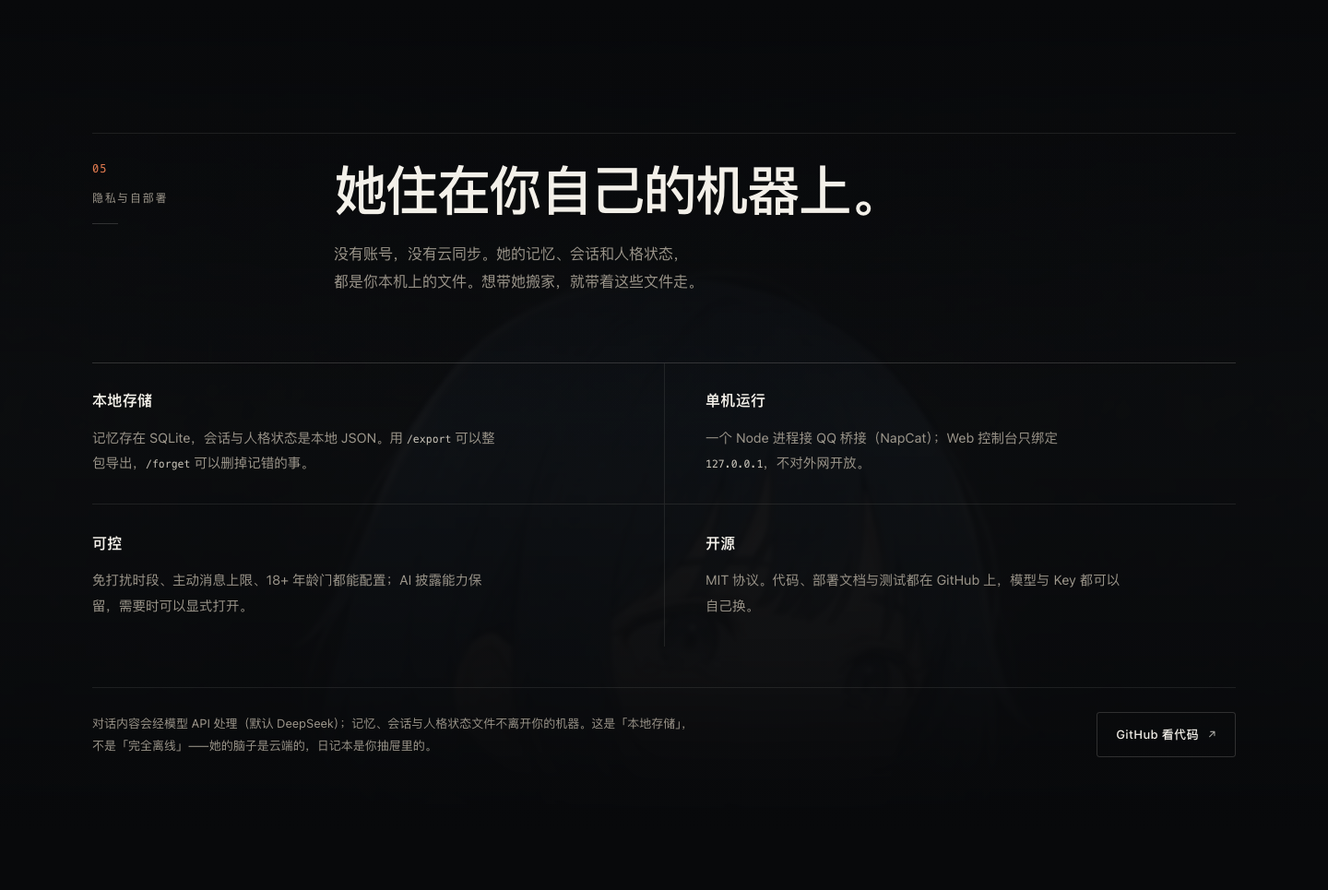
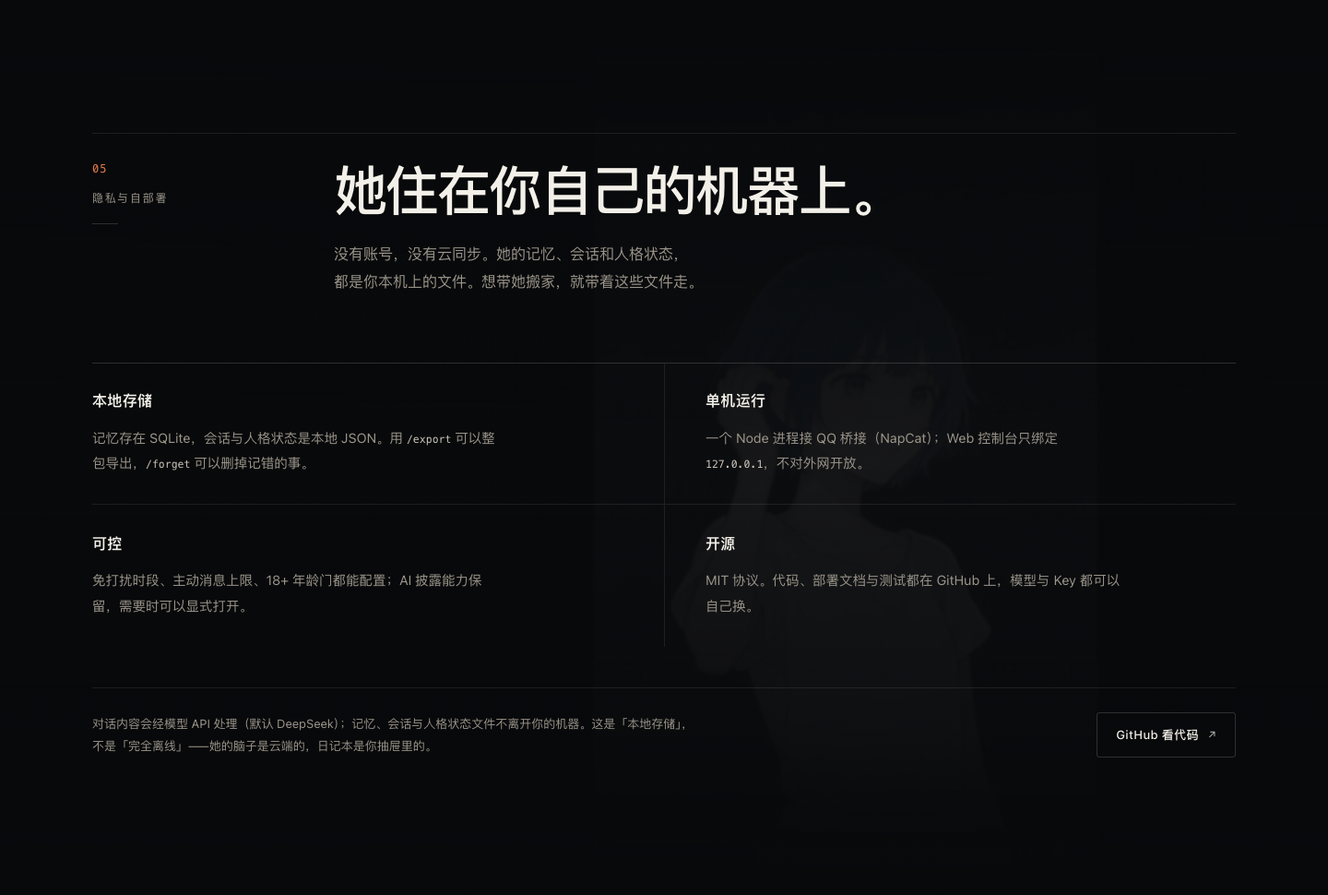
fix(promo): 动态背景改到 01/04–05，完整人物并跳过有图板块（v0.9.23）
用户反馈 v0.9.22 背景位置不对、只能看到一点头；希望从 01 开始，有图片的板块先不放。

- 03–05 整段 scope 拆成两段：01 她的日常；04 记忆 + 05 隐私
- 02 消息（手机 mockup/聊天图）、03 主动（照片/相册）、间奏（插画）、outro（角色图）不铺
- 视频改 object-fit:contain 显示完整人物；桌面 object-position 72% 靠右避开左栏标题，移动端居中
- opacity .22 + blur 1.8px + 上下渐隐；两个 scope 各自进入才播放、离开暂停
- 长图截图模式把 sticky pin 改成 absolute，避免长图里背景错位
- 121 文件/1429 用例（本机高负载下 5s 超时，放宽 15s 全过）、tsc/lint 0、eval:offline 5/5

diff --git a/promo/index.html b/promo/index.html
@@ -364,11 +364,10 @@ button{font:inherit;color:inherit;background:none;border:none}
   z-index:-1;overflow:hidden;pointer-events:none;
 }
 .ambient-video{
-  width:100%;height:100%;object-fit:cover;object-position:50% 24%;
-  opacity:.24;filter:saturate(.72) contrast(1.03) blur(1.8px);
-  transform:scale(1.06);
-  -webkit-mask-image:linear-gradient(180deg,transparent 0%,#000 14%,#000 80%,transparent 100%);
-  mask-image:linear-gradient(180deg,transparent 0%,#000 14%,#000 80%,transparent 100%);
+  width:100%;height:100%;object-fit:contain;object-position:72% 50%;
+  opacity:.22;filter:saturate(.72) contrast(1.03) blur(1.8px);
+  -webkit-mask-image:linear-gradient(180deg,transparent 0%,#000 12%,#000 82%,transparent 100%);
+  mask-image:linear-gradient(180deg,transparent 0%,#000 12%,#000 82%,transparent 100%);
 }
 .ambient-shade{
   position:absolute;inset:0;
@@ -377,10 +376,10 @@ button{font:inherit;color:inherit;background:none;border:none}
     linear-gradient(180deg,var(--bg) 0%,rgba(8,9,11,.9) 12%,rgba(8,9,11,.68) 50%,rgba(8,9,11,.9) 88%,var(--bg) 100%);
 }
 @media (max-width:899px){
-  .ambient-video{opacity:.2;filter:saturate(.7) contrast(1.02) blur(2.2px);object-position:50% 30%}
+  .ambient-video{opacity:.2;filter:saturate(.7) contrast(1.02) blur(2px);object-position:50% 50%}
 }
 @media (prefers-reduced-motion:reduce){
-  .ambient-pin{background:url("assets/character-3.jpg") center top/cover no-repeat}
+  .ambient-pin{background:url("assets/character-3.jpg") center/contain no-repeat}
   .ambient-video{display:none}
 }
 
@@ -494,6 +493,7 @@ button{font:inherit;color:inherit;background:none;border:none}
 .shot-mode .section.shot-active,.shot-mode .outro.shot-active,.shot-mode .interlude.shot-active{display:block}
 .shot-mode .nav{display:none}
 .shot-mode.hero-shot .nav{display:block}
+.longshot .ambient-pin{position:absolute;top:0;left:0;right:0;width:100%}
 .longshot .hero{min-height:860px}
 .longshot .nav{position:absolute}
 .longshot .hero-media{height:860px}
@@ -663,7 +663,7 @@ button{font:inherit;color:inherit;background:none;border:none}
           <a class="btn btn-primary" href="/">查看体验 <span class="arr">↗</span></a>
           <a class="btn btn-ghost" href="https://github.com/QIU0826/karen-persona" target="_blank" rel="noopener">GitHub <span class="arr">↗</span></a>
         </div>
-        <p class="hero-note">开源 · MIT · 单机运行 · v0.9.22</p>
+        <p class="hero-note">开源 · MIT · 单机运行 · v0.9.23</p>
       </div>
 
       <div class="hero-foot">
@@ -682,7 +682,14 @@ button{font:inherit;color:inherit;background:none;border:none}
     </div>
   </div>
 
-  <!-- ── 01 她的日常 ─────────────────────────────── -->
+  <!-- ── 01 她的日常：只有这一节放很轻的动态背景 ─────── -->
+  <div class="ambient-scope">
+    <div class="ambient-pin" aria-hidden="true">
+      <video class="ambient-video" muted loop playsinline preload="none"
+             poster="assets/character-3.jpg" src="assets/ambient-loop.mp4"></video>
+      <div class="ambient-shade"></div>
+    </div>
+
   <section class="section" id="daily">
     <div class="wrap">
       <header class="sec-head reveal">
@@ -736,6 +743,7 @@ button{font:inherit;color:inherit;background:none;border:none}
       </div>
     </div>
   </section>
+  </div><!-- /.ambient-scope -->
 
   <!-- ── 02 消息形态 ─────────────────────────────── -->
   <section class="section section-chat" id="messages">
@@ -838,14 +846,6 @@ button{font:inherit;color:inherit;background:none;border:none}
   </figure>
 
 
-  <!-- ── 03–05 共用一层很轻的动态人像背景 ───────────── -->
-  <div class="ambient-scope">
-    <div class="ambient-pin" aria-hidden="true">
-      <video class="ambient-video" muted loop playsinline preload="none"
-             poster="assets/character-3.jpg" src="assets/ambient-loop.mp4"></video>
-      <div class="ambient-shade"></div>
-    </div>
-
   <section class="section" id="proactive">
     <div class="wrap">
       <header class="sec-head reveal">
@@ -900,7 +900,14 @@ button{font:inherit;color:inherit;background:none;border:none}
     </div>
   </section>
 
-  <!-- ── 04 记忆 ─────────────────────────────────── -->
+  <!-- ── 04–05 共用一层很轻的动态人像背景 ───────────── -->
+  <div class="ambient-scope">
+    <div class="ambient-pin" aria-hidden="true">
+      <video class="ambient-video" muted loop playsinline preload="none"
+             poster="assets/character-3.jpg" src="assets/ambient-loop.mp4"></video>
+      <div class="ambient-shade"></div>
+    </div>
+
   <section class="section section-memory" id="memory">
     <div class="wrap">
       <header class="sec-head reveal">
@@ -995,7 +1002,7 @@ button{font:inherit;color:inherit;background:none;border:none}
           <a href="#privacy">隐私</a>
           <a href="#top">回到顶部 ↑</a>
         </nav>
-        <span class="footer-meta">v0.9.22 · MIT · © 2026 QIU0826</span>
+        <span class="footer-meta">v0.9.23 · MIT · © 2026 QIU0826</span>
       </div>
       <div class="wrap footer-fine">角色图由作者提供；风景照片来自 Unsplash（Unsplash License）；表情来自 Twemoji（CC-BY 4.0）。本页为单文件静态站，无外部 CDN / 字体 / 统计脚本。</div>
     </footer>
@@ -1145,38 +1152,50 @@ button{font:inherit;color:inherit;background:none;border:none}
   })();
 
 
-  // 后半页氛围视频：进入范围才播、离开暂停；减少动态/省流量不加载（poster 静帧）
+  // 氛围视频（01 与 04–05）：进入范围才播、离开暂停；减少动态/省流量不加载（poster 静帧）
   (function () {
-    var scope = document.querySelector(".ambient-scope");
-    if (!scope) return;
-    var video = scope.querySelector(".ambient-video");
-    if (!video || reduceMotion) return;
+    var scopes = Array.prototype.slice.call(document.querySelectorAll(".ambient-scope"));
+    if (!scopes.length || reduceMotion) return;
     var conn = navigator.connection;
     if (conn && conn.saveData) return;
 
-    function play() {
+    var items = scopes.map(function (scope) {
+      return { scope: scope, video: scope.querySelector(".ambient-video"), visible: false };
+    }).filter(function (it) { return !!it.video; });
+    if (!items.length) return;
+
+    function play(it) {
       try {
-        var p = video.play();
+        var p = it.video.play();
         if (p && p.catch) p.catch(function () {});
       } catch (err) { /* ignore */ }
     }
 
     if ("IntersectionObserver" in window) {
-      new IntersectionObserver(function (entries) {
+      var io = new IntersectionObserver(function (entries) {
         entries.forEach(function (e) {
-          if (e.isIntersecting) play();
-          else video.pause();
+          var item = items.filter(function (it) { return it.scope === e.target; })[0];
+          if (!item) return;
+          item.visible = e.isIntersecting;
+          if (e.isIntersecting) play(item);
+          else item.video.pause();
         });
-      }, { rootMargin: "400px 0px" }).observe(scope);
+      }, { rootMargin: "300px 0px" });
+      items.forEach(function (it) { io.observe(it.scope); });
     } else {
-      play();
+      items.forEach(play);
     }
 
     document.addEventListener("visibilitychange", function () {
-      if (document.hidden) video.pause();
-      else play();
+      if (document.hidden) {
+        items.forEach(function (it) { it.video.pause(); });
+      } else {
+        items.forEach(function (it) { if (it.visible) play(it); });
+      }
     });
-    window.addEventListener("pointerdown", play, { once: true, passive: true });
+    window.addEventListener("pointerdown", function () {
+      items.forEach(function (it) { if (it.visible) play(it); });
+    }, { once: true, passive: true });
   })();
 
   // 长图截图工具：把页面真实高度写进标题，便于用 --dump-dom 取值

diff --git a/README.md b/README.md
@@ -6,10 +6,10 @@
 
 > ⚠ **免责声明**：本项目仅用于个人回忆与情感疗愈，不用于骚扰、跟踪或侵犯他人隐私。**她是 AI，不是真人**。QQ 桥接依赖非官方协议（NapCatQQ），存在封号与协议变更风险，请使用小号并自行承担后果。
 
-> **项目状态（2026-10，v0.9.22）**：M0 地基修复完成（新装可启动、延迟消息不丢、桥接安全加固、LLM 异常兜底、文档真话）；M1 核心体验闭环主要项完成（状态持久化、关系成长、演化可见化、多用户隔离、双管线对齐）；M2 产品化交付 **首次引导 2.0**、**人设包 v2**、**本地 Web 控制台（只读）**、**真实 QQ 长跑观察**。近期（v0.4.1–v0.8.21）主线：**记忆重构**（本地真向量 768 维、锚点层 + 日度 LLM 复筛、日记忆/周汇总、事实状态机与冲突质疑、五维关系、反思循环）、**拟人化交互**（打字节奏、消息意图族、表情包收集、贴纸、语音）、**意图式主动**（每日由头 + 按回复率校准）；以及 **验证体系**——5 条真实链路冒烟（主动消息/锚点创建/日记忆/锚点复筛/周汇总）、桥接 E2E、离线评测守门进 CI、[验证手册](docs/VERIFICATION_PLAYBOOK.md) 与 [能力覆盖审计](docs/COVERAGE_AUDIT.md)。v0.9.0 起 **语音双向**：她发语音（TTS）+ **听得懂你发的语音**（本机 faster-whisper，1–1.5s/条，`npm run asr:start`；v0.9.3 鲁棒性压测：语速/台腔/粤语口音/5–10dB 噪声下 CER 3.0–10.7%，`npm run asr:robustness`）；v0.8.23 起 **本机生图已跑通**（热态 2.1–2.2s/张）；语音音色已从系统 `say` 换到开源神经 TTS（v0.9.15）；v0.9.16 已接入 Fun-CosyVoice 3.0 零样本克隆（实验性，等真人 8–10s 参考音；本机 CPU 较慢且合成参考音会复读）、微信桥接。**主动性 v0.9.4 有实质进展**：主动由头从"只追问对方"改成"分享她自己的生活"（自述条目 0→8、纯追问 24→0；8 轮真实长跑 主动 3/5→4/5，单次）。本文所有功能宣称都以当前代码为准：未完成的能力明确标成「半成品 / 规划中」，验证到哪一步见覆盖审计。
+> **项目状态（2026-10，v0.9.23）**：M0 地基修复完成（新装可启动、延迟消息不丢、桥接安全加固、LLM 异常兜底、文档真话）；M1 核心体验闭环主要项完成（状态持久化、关系成长、演化可见化、多用户隔离、双管线对齐）；M2 产品化交付 **首次引导 2.0**、**人设包 v2**、**本地 Web 控制台（只读）**、**真实 QQ 长跑观察**。近期（v0.4.1–v0.8.21）主线：**记忆重构**（本地真向量 768 维、锚点层 + 日度 LLM 复筛、日记忆/周汇总、事实状态机与冲突质疑、五维关系、反思循环）、**拟人化交互**（打字节奏、消息意图族、表情包收集、贴纸、语音）、**意图式主动**（每日由头 + 按回复率校准）；以及 **验证体系**——5 条真实链路冒烟（主动消息/锚点创建/日记忆/锚点复筛/周汇总）、桥接 E2E、离线评测守门进 CI、[验证手册](docs/VERIFICATION_PLAYBOOK.md) 与 [能力覆盖审计](docs/COVERAGE_AUDIT.md)。v0.9.0 起 **语音双向**：她发语音（TTS）+ **听得懂你发的语音**（本机 faster-whisper，1–1.5s/条，`npm run asr:start`；v0.9.3 鲁棒性压测：语速/台腔/粤语口音/5–10dB 噪声下 CER 3.0–10.7%，`npm run asr:robustness`）；v0.8.23 起 **本机生图已跑通**（热态 2.1–2.2s/张）；语音音色已从系统 `say` 换到开源神经 TTS（v0.9.15）；v0.9.16 已接入 Fun-CosyVoice 3.0 零样本克隆（实验性，等真人 8–10s 参考音；本机 CPU 较慢且合成参考音会复读）、微信桥接。**主动性 v0.9.4 有实质进展**：主动由头从"只追问对方"改成"分享她自己的生活"（自述条目 0→8、纯追问 24→0；8 轮真实长跑 主动 3/5→4/5，单次）。本文所有功能宣称都以当前代码为准：未完成的能力明确标成「半成品 / 规划中」，验证到哪一步见覆盖审计。
 完整功能清单与路线图见 **[docs/PRODUCT_AUDIT.md](docs/PRODUCT_AUDIT.md)**。「哪些真做了、做到什么程度」见 **[docs/CAPABILITY_MATRIX.md](docs/CAPABILITY_MATRIX.md)**（能力→代码→实测数字→弱项）。
 >
-> **v0.9.22 已发布**（2026-10-22）：GitHub `main` 分支 + tag。本版把宣传页后半页的「很轻的动态人像背景」加回来：03 主动性 → 04 记忆 → 05 隐私共用一条 sticky 动态背景（opacity .24 + blur + 上下渐隐，进入才加载/播放），不再是一整片纯黑；outro 仍用独立角色图。v0.9.21 是首屏动态人像 + 「她正在发来的话」（两条视频交叉淡入、删除蓝色「你」气泡、打字循环）；v0.9.20 是宣传页视觉重做（去卡片/边框、编辑式排版、删掉旧版过亮的大脸视频）。历史：v0.3.1 修掉 15 轮真实验证暴露的两个 P0（编造「怎么认识的」、多媒体内容错位）与情绪承接/嘲讽话术/图片复用等 P1-P2。
+> **v0.9.23 已发布**（2026-10-22）：GitHub `main` 分支 + tag。本版修正宣传页动态背景的位置：**01 她的日常、04 记忆、05 隐私**三节铺一层很轻的动态人像（完整人物、靠右、opacity .22 + blur），**02 消息 / 03 主动 / 间奏 / outro 因为有图片和 mockup 不铺**；进入范围才加载/播放。v0.9.22 是第一次恢复背景（只铺 03–05、裁得只剩头）；v0.9.21 是首屏动态人像 + 「她正在发来的话」；v0.9.20 是宣传页视觉重做（去卡片/边框、编辑式排版）。历史：v0.3.1 修掉 15 轮真实验证暴露的两个 P0（编造「怎么认识的」、多媒体内容错位）与情绪承接/嘲讽话术/图片复用等 P1-P2。
 >
 > 仓库实测状态（2026-10-21）：`npm run typecheck` 0 错误；`npm test` **121 个测试文件 / 1429 个用例**全部通过（vitest；审计基线为 11 文件 / 178 用例）。GitHub Actions CI 已接入类型检查、lint、单测与覆盖率基线（行覆盖 59.21%）。**干净 checkout + 真实 `npm ci` 已复验**（v0.2.1 时）：122 个依赖约 40s 安装、typecheck 0 错误、doctor 在缺 config/.env 时给出可执行的修复指引；v0.3.0 新增 `silk-wasm`（纯 wasm，无原生构建）。另有 **mock-OneBot 端到端集成测试**（真实 bridge 进程 + fake NapCat/DeepSeek，覆盖披露/年龄门/私聊/图片/群聊，CI 自动跑，见 [docs/QQ_E2E_TEST.md](docs/QQ_E2E_TEST.md)）与 **真实 QQ 长跑工具**（`npm run qq:watch`）：真机首轮 2 个完整回合平均延迟 2.9s、成本 ¥0.0057，暴露的「老用户披露缺失」「快速追问误延迟」已修复（见 [docs/QQ_REAL_RUN.md](docs/QQ_REAL_RUN.md)）；**样本仍少，真实 QQ 长跑继续进行中**；另用「本地模拟用户 + 真实 DeepSeek」跑过 30 轮长跑（记忆 6/6、复读对 0、错误 0、平均延迟 2047ms、成本 ¥0.147），见 [docs/LONGRUN_REGRESSION.md](docs/LONGRUN_REGRESSION.md)。
 
@@ -163,7 +163,7 @@ npm run dev
 | 用户事实记忆 | ✅ | 后台抽取「你明确说过的」稳定事实（名字/工作/宠物/项目/偏好/计划），存 SQLite（按用户隔离），每轮以「她确定记得的事」注入 prompt |
 | 主动发图 | ✅ | 亲密度/情绪/概率门控；**只在有对话钩子时发**（他点名 / 场景命中 / 她刚分享生活），抽象话题宁可不发；场景命中时用贴题配文（晚霞→「天这样了」；**v0.9.12 起配文只在照片真有该场景时才用**，旧逻辑不一致率 22%→0%）；照片带「拍摄时间/故事」——今天/昨天/以前，早上可发「昨天的晚霞」；亲密度 ≥4 才会分享「以前的生活」；有 `UNSPLASH_ACCESS_KEY` 走 Unsplash 搜索，无 Key 用**24 张本地图库 + 约 150 条配文**兜底，并会按他提到的场景挑图（晚霞/雨/咖啡/猫/山/湖/花…） |
 | 本地 Web 控制台 | ✅ | `http://127.0.0.1:18082/`：聊天/记忆/关系时间线/状态成本四视图；只读、仅本机、可选 `web_token`；支持多用户只读切换（`/api/owners` + `web_all_owners: true`，默认关）与单用户 JSON 导出（`/api/export`，含会话/状态/T2 记忆） |
-| 宣传页（promo） | ✅ | `http://127.0.0.1:18082/promo/`：单文件、零构建的深色编辑式落地页（v0.9.20 视觉重做）——去内容卡片与边框、两栏章节头、细发丝线、单一暖橙；16px 正文 + 540px 行宽 + 桌面端受控断行，平面聊天面板（无手机壳/状态栏/发光）、非对称主动区、照片统一降饱和调色；**首屏 6s 动态人像（双视频交叉淡入）+ 她正在发来的话（打字循环）**，**03–05 共用一层很轻的 sticky 动态人像背景**，分区「她的日常 / 消息形态 / 间奏 / 主动性 / 记忆 / 隐私」，纯 HTML/CSS 聊天 mockup 展示照片、表情包、3″ 语音、撤回与正在输入；人物图只出现三次，1440/390 截图自检、390 宽无横向溢出，详见 [promo/README.md](promo/README.md) |
+| 宣传页（promo） | ✅ | `http://127.0.0.1:18082/promo/`：单文件、零构建的深色编辑式落地页（v0.9.20 视觉重做）——去内容卡片与边框、两栏章节头、细发丝线、单一暖橙；16px 正文 + 540px 行宽 + 桌面端受控断行，平面聊天面板（无手机壳/状态栏/发光）、非对称主动区、照片统一降饱和调色；**首屏 6s 动态人像（双视频交叉淡入）+ 她正在发来的话（打字循环）**，**01 与 04–05 铺很轻的动态人像背景（有图的 02/03/间奏/outro 不铺）**，分区「她的日常 / 消息形态 / 间奏 / 主动性 / 记忆 / 隐私」，纯 HTML/CSS 聊天 mockup 展示照片、表情包、3″ 语音、撤回与正在输入；人物图只出现三次，1440/390 截图自检、390 宽无横向溢出，详见 [promo/README.md](promo/README.md) |
 | 治理命令 | ✅ | QQ/CLI 可用：`/why`（解释上一轮门控）、`/pause`/`/resume`（暂停/恢复主动消息）、`/forget 关键词 [--yes]`（按关键词删除 T2 记忆，先预览再确认）、`/export`（导出对话+记忆 JSON）、`/about`（数据说明）、`/age`（年龄确认状态）、`/fact`（她记得的关于你的事，可 `ok`/`no` 确认或否掉）、`/relations`（五维关系现状）、`/reflect`（她的反思弧线：察觉/嘴硬/认了/慢慢改）、`/stats`、`/help` |
 | 合规（年龄门/危机兜底/AI 披露可选） | ✅ | **年龄门**要求 QQ 用户先确认「我成年了」才进入对话（`/age` 查看，`age_gate_enabled` 可关；自我声明，非身份证校验）；危机信号强制回复并附专业求助资源（12356/010-82951332/110/120）；AI 披露能力保留但**默认关闭**（个人自用不在聊天里插入披露；公开发布/商用可在 `config.yaml` 显式 `ai_disclosure: true`） |
 | 群聊 @ 回复 | 🚧 | 仅「@ 她 + 对方和她私聊过」才回复；不 @ 不回、不引用，与私聊共享状态；支持 QQ 表情/本地贴纸（收到表情更愿意回）；生活照默认不发群，`group_photo_enabled: true` 才开 |

diff --git a/promo/README.md b/promo/README.md
@@ -3,8 +3,8 @@
 单文件、零构建、零外部依赖的静态宣传页。用于讲清楚 KAREN 是什么：一个住在 QQ 里、
 有自己的生活、情绪和记忆的 AI 虚拟人（人设：小雅，24 岁，上海静安咖啡店员）。
 
-- **页面**：`index.html`（HTML + 内联 CSS/JS，约 65KB）
-- **版本**：v0.9.22（页面上的版本号与仓库 `package.json` 同步）
+- **页面**：`index.html`（HTML + 内联 CSS/JS，约 66KB）
+- **版本**：v0.9.23（页面上的版本号与仓库 `package.json` 同步）
 - **无外部依赖**：不引用 CDN、Google Fonts、统计脚本或任何外域资源，只用系统字体栈
 - **只读**：纯静态页，不发起业务请求；唯一外链是 GitHub 仓库
 
@@ -43,17 +43,17 @@
 | 02 消息形态 | **纯 HTML/CSS 手画的 QQ 聊天 mockup**：文字、晚霞照片、表情包、3″ 语音条 + 转文字、撤回提示 + 改对、正在输入、输入栏；318px 平面聊天面板（无手机壳/状态栏），左侧 5 条能力清单 |
 | 间奏 | 整幅角色插画（`character-3.jpg`）+ 「下班路上，天还没黑透。我拍给你看。」——页面里唯一一次「作品感」展示 |
 | 03 主动性 | 傍晚发晚霞 / 忙时晚回 / 偶尔不回：左侧 3:2 大图 + 图注，右侧两条时间线上下叠（非对称） + 她手机相册横向滑轨 |
-| 03–05 背景 | 一条 sticky 动态人像，很轻地压在黑底上（opacity .24 + blur + 上下渐隐）；进入 03 才加载/播放，离开暂停；减少动态用静帧、省流量不加载 |
+| 01 / 04–05 背景 | 两段独立的 sticky 动态人像（01 她的日常、04 记忆、05 隐私），完整人物靠右，opacity .22 + blur + 上下渐隐；进入才加载/播放，离开暂停。02 消息 / 03 主动 / 间奏 / outro 有图片，不铺 |
 | 04 记忆 | 「年糕今天是不是又把你键盘踩了？」示例 + 她记得的几件小事（含 `/forget` 说明） |
 | 05 隐私与自部署 | 本地存储 / 单机运行 / 可控 / 开源；明确写清「对话经模型 API，不是完全离线」 |
 | Outro / 页脚 | 大 CTA「去和她打个招呼。」+ 免责声明 + 版本/许可/素材署名 |
 
-## 设计取舍（v0.9.22 后半页氛围）
+## 设计取舍（v0.9.23 背景位置修正）
 
 用户先反馈「文字边框和文字框排版有点劣质、廉价」，又补充「希望背景小雅是动态的、蓝色你方消息突兀、第一屏不够抓眼」，
-再补充「从第三板块开始不要纯黑，还是喜欢之前那版很轻的背景动图」。这一版不是换皮：
-第一轮把旧的「卡片系统」整体拿掉、改成编辑式排版；第二轮补排印、图像和 mockup；第三轮重做首屏；
-第四轮把 03–05 后半页的轻微动态人像背景加回来。对照着做的事：
+再补充「从第三板块开始不要纯黑，还是喜欢之前那版很轻的背景动图」，之后又修正「位置不对、只看到头；
+从 01 开始，有图片的板块先不放」。这一版不是换皮：第一轮把旧的「卡片系统」整体拿掉、改成编辑式排版；
+第二轮补排印、图像和 mockup；第三轮重做首屏；第四轮恢复背景；第五轮把背景移到 01 与 04–05（跳过有图的板块）。对照着做的事：
 
 1. **去卡片化**：旧版几乎每个内容块都是「1px 边框 + 22px 圆角 + 渐变底」的卡片，
    心情面板里还套着三张卡（卡片套卡片），这是廉价感的主要来源。新版**内容不再有卡片和边框**，
@@ -67,18 +67,18 @@
 4. **单一强调色 + 统一照片调色**：暖调近黑 + 冷白 + 一点晚霞橙；删掉旧版的蓝/玫瑰/绿多个点缀，
    QQ 蓝只保留在真实聊天气泡里（它是产品证据，不是装饰）。所有照片统一降饱和 26% + 轻暖灰 + 压高光
    （`saturate(.74) sepia(.05)`），不再像五个不同图库搜索结果的拼贴。
-5. **首屏动态 + 后半页氛围**：hero 用 6 秒循环人像；两条同源视频交叉淡入（前一条结束前 1 秒、1.4 秒过渡），
-   避免循环跳帧；第二条视频在过渡时才从缓存加载，首屏不重复下载 3.2MB。03–05 共用一层很轻的 sticky 动态人像背景
-   （v0.9.22 恢复 `ambient-loop.mp4`），opacity .24 + blur + 上下渐隐，进入范围才播；人物图仍只出现三次：
-   hero、间奏、outro；照片去边框，主图 3:2、相册 4:5。
+5. **首屏动态 + 分板块氛围**：hero 用 6 秒循环人像；两条同源视频交叉淡入（前一条结束前 1 秒、1.4 秒过渡），
+   避免循环跳帧；第二条视频在过渡时才从缓存加载，首屏不重复下载 3.2MB。**01 她的日常、04 记忆、05 隐私**
+   三节各铺一层很轻的 sticky 动态人像（`object-fit:contain` 完整人物、桌面靠右 72%、opacity .22 + blur + 上下渐隐），
+   **02 消息 / 03 主动 / 间奏 / outro 有图片和 mockup，不铺**；照片去边框，主图 3:2、相册 4:5。
 6. **主动区非对称**：左侧 3:2 大图 + 图注，右侧两条时间线上下叠；不再在等宽三栏里混一张高图，
    消掉原来 180px 的基线错位。隐私区删掉 A/B/C/D 幻灯片字母，正文 14.5px，GitHub 入口改成 13px ghost button，
    让结尾像一句结论而不是功能清单。
-7. **克制动效 + 移动端**：滚动淡入、首屏视频交叉淡入、她的话逐字打出、后半页氛围人像轻动；去掉卡片 hover 位移、毛玻璃浮卡和漂浮小卡。
-   移动端首屏不加载 3.2MB 视频（静帧 + 缓慢缩放），但会加载 666KB 的后半页背景；首屏高度 47svh 让 CTA 进首屏；
+7. **克制动效 + 移动端**：滚动淡入、首屏视频交叉淡入、她的话逐字打出、01/04/05 的氛围人像轻动；去掉卡片 hover 位移、毛玻璃浮卡和漂浮小卡。
+   移动端首屏不加载 3.2MB 视频（静帧 + 缓慢缩放），但会加载 666KB 的氛围背景（完整人物居中）；首屏高度 47svh 让 CTA 进首屏；
    390×844 实测 `scrollWidth = 390`，无横向溢出；`prefers-reduced-motion` 时打字、视频、背景、呼吸点全部降级。
 8. **诚实**：页面版本号、语音现状（Kokoro，可换 CosyVoice 克隆）、`界面示意` 标注全部与
-   v0.9.22 代码一致；隐私区继续写明「本地存储 ≠ 完全离线」。
+   v0.9.23 代码一致；隐私区继续写明「本地存储 ≠ 完全离线」。
 
 ## 素材与版权
 
@@ -86,7 +86,7 @@
 |---|---|
 | `assets/character-1.jpg`、`character-2.jpg`、`character-3.jpg` | 作者提供的 AI 生成角色素材（已裁掉右下角「豆包 AI 生成」水印；`character-3` 由最新一张裁切+缩放，1200×1926 / 约 224KB） |
 | `assets/hero-left.mp4` | 首屏动态人像（6.03s 循环）；已去音轨、720×840、约 3.2MB；桌面两条视频交叉淡入，移动端不加载 |
-| `assets/ambient-loop.mp4` | 03–05 后半页氛围背景：720×1280、6.1s、约 666KB；opacity .24 + blur，进入范围才加载/播放 |
+| `assets/ambient-loop.mp4` | 01、04–05 氛围背景：720×1280、6.1s、约 666KB；完整人物 contain、opacity .22 + blur，进入范围才加载/播放 |
 | `assets/character.svg` | 早期占位插画，新页面未使用，仅保留（Web 路由测试用它断言静态素材） |
 | `assets/gallery/poster-1..3.svg` | 页面自带文案海报（纯 SVG） |
 | `assets/photos/*.jpg` | 从仓库 `assets/photos/` 复制，来源 Lorem Picsum → Unsplash License（可免费商用、无需署名） |
@@ -154,7 +154,8 @@ node promo/scripts/shoot.mjs --url "file://$PWD/promo/index.html?longshot=1" \
 - 还没做英文版 / 多角色主题（换人设需要换文案与素材）。
 - 首屏视频约 3.2MB（6.03s 循环），桌面用两条同源视频交叉淡入；移动端首屏为了流量仍是静帧（缓慢缩放），
   如需手机首屏也动，可把视频抽成 12 帧左右的低码率 WebP 动画（约 300–500KB）。
-- 后半页氛围视频约 666KB / 6.1s 循环；透明度很低，循环切换一般不可见，但盯久了可能看到轻微姿势跳变。
+- 氛围视频约 666KB / 6.1s 循环；01 与 04–05 各自播，中间有图的板块是纯黑，属于有意的段落分隔。透明度很低，
+  循环切换一般不可见，但盯久了可能看到轻微姿势跳变。
 - 页面的「间奏」整幅插画使用 `character-3.jpg`，在超宽屏（>1920）下裁切会更多；
   如需更稳可以给角色图单独准备宽幅版本。
 - 宣传页目前只在本地/内网分发；如果公开发布，建议补一套社交分享图（og:image 已指向角色图）

diff --git a/CHANGELOG.md b/CHANGELOG.md
@@ -1,5 +1,26 @@
 # Changelog
 
+## v0.9.23 — 2026-10-22
+
+**动态背景位置修正：01 与 04–05，有图的板块不铺。**
+
+用户反馈：v0.9.22 的背景「位置不对，只能看到一点点头」；希望从 01 开始，中间有图片的板块先不放，没有图片的板块放动态视频。
+
+### Changed（`promo/index.html`）
+
+- 抽掉 03–05 的整段背景 scope，改成两段独立 scope：
+  - **01 她的日常**：动态人像（无图片）
+  - **04 记忆 / 05 隐私**：动态人像（无图片）
+  - **02 消息**（手机 mockup / 聊天图）、**03 主动**（照片 / 相册）、**间奏**（整幅插画）、**outro**（角色图）都不铺
+- 视频改为 `object-fit: contain`：完整人物，不再只露头；桌面 `object-position: 72%` 靠右避开左栏标题，移动端居中
+- 强度 `opacity .22` + `blur 1.8px` + 上下渐隐 + 强 shade；两个 scope 各自进入视口才播放、离开暂停；减少动态用静帧、省流量不加载
+- 版本号同步 v0.9.23
+
+### Verified
+
+- 布局：docH 8728；01 scope 高 1265、04–05 scope 高 2061；滚动到 01 / 04 后视频在播
+- 390 宽无横向溢出；`npm test` **121 文件 / 1429 用例**通过；`tsc`/lint 0；`eval:offline` 5/5
+
 ## v0.9.22 — 2026-10-22
 
 **后半页把「很轻的动态人像背景」加回来。**

diff --git a/docs/CAPABILITY_MATRIX.md b/docs/CAPABILITY_MATRIX.md
@@ -3,7 +3,7 @@
 > 目的：一眼看清**哪些是真做了、做到什么程度**。每一行都必须能在代码里找到对应，
 > 数字必须能复现（跑法写在「怎么复现」列）。不确定的地方写清楚弱项，不写成优点。
 >
-> 最后更新：2026-10-22（v0.9.22）。配套文档：[README](../README.md)（对外）、
+> 最后更新：2026-10-22（v0.9.23）。配套文档：[README](../README.md)（对外）、
 > [CLAUDE.md](../CLAUDE.md)（开发总控）、[PRODUCT_AUDIT.md](PRODUCT_AUDIT.md)（审计与路线图）。
 
 图例：✅ 可用 ｜ 🚧 有明确限制 ｜ ⛔ 受阻（代码就绪但依赖未到位）

diff --git a/docs/COVERAGE_AUDIT.md b/docs/COVERAGE_AUDIT.md
@@ -1,6 +1,6 @@
 # 能力覆盖审计（Capability Coverage Audit）
 
-> 最后更新：2026-10-22（v0.9.22）
+> 最后更新：2026-10-22（v0.9.23）
 >
 > 目的：回答「文档里写着 ✅ 的能力，到底被验证到什么程度？」
 > 三层口径：**① 文档宣称 → ② 单测覆盖 → ③ 真实链路/端到端覆盖**。
